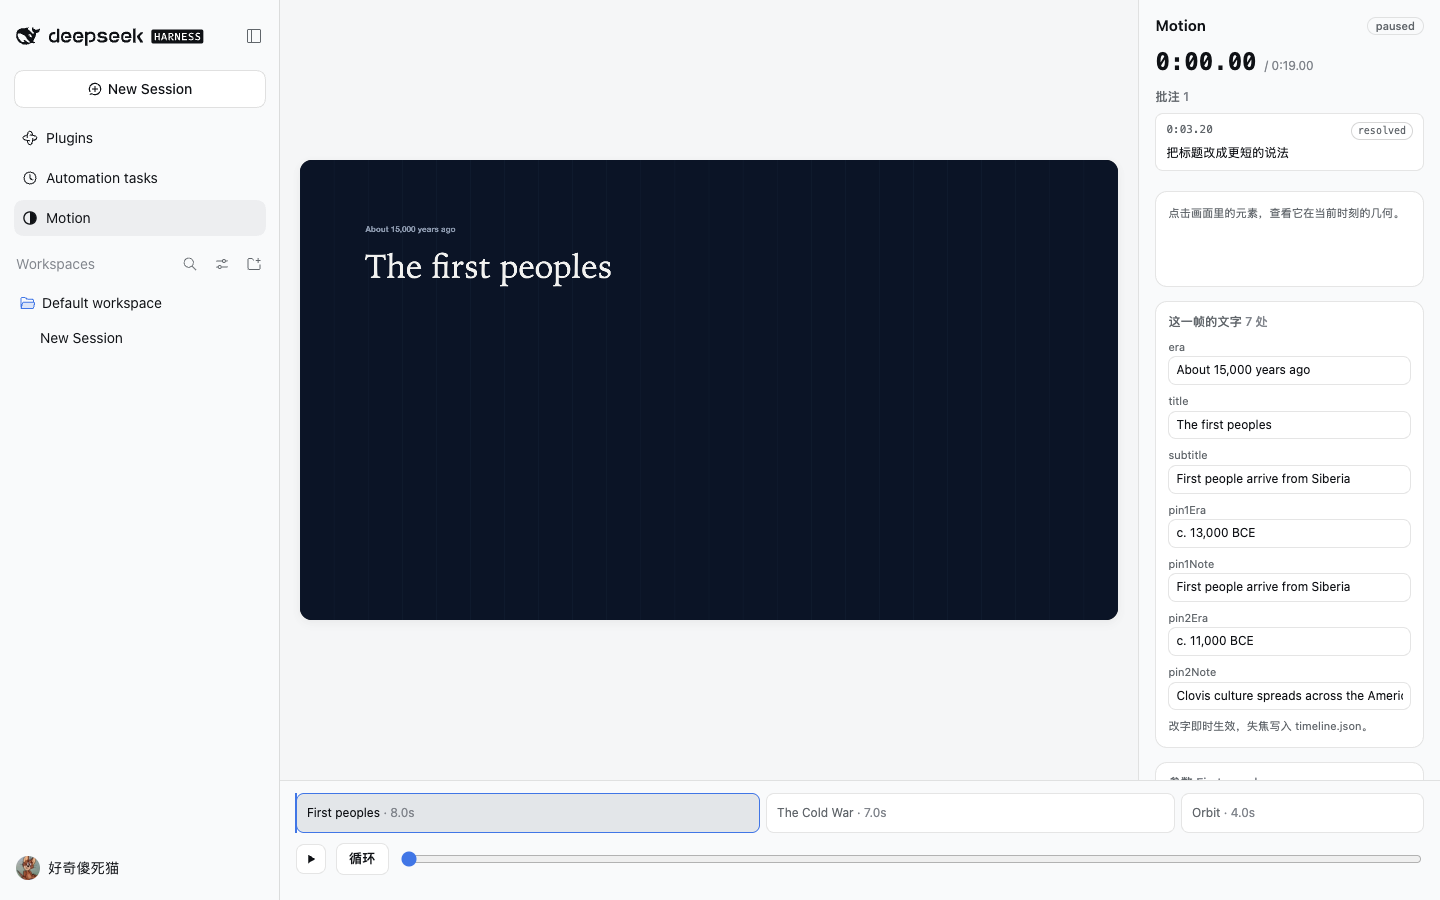
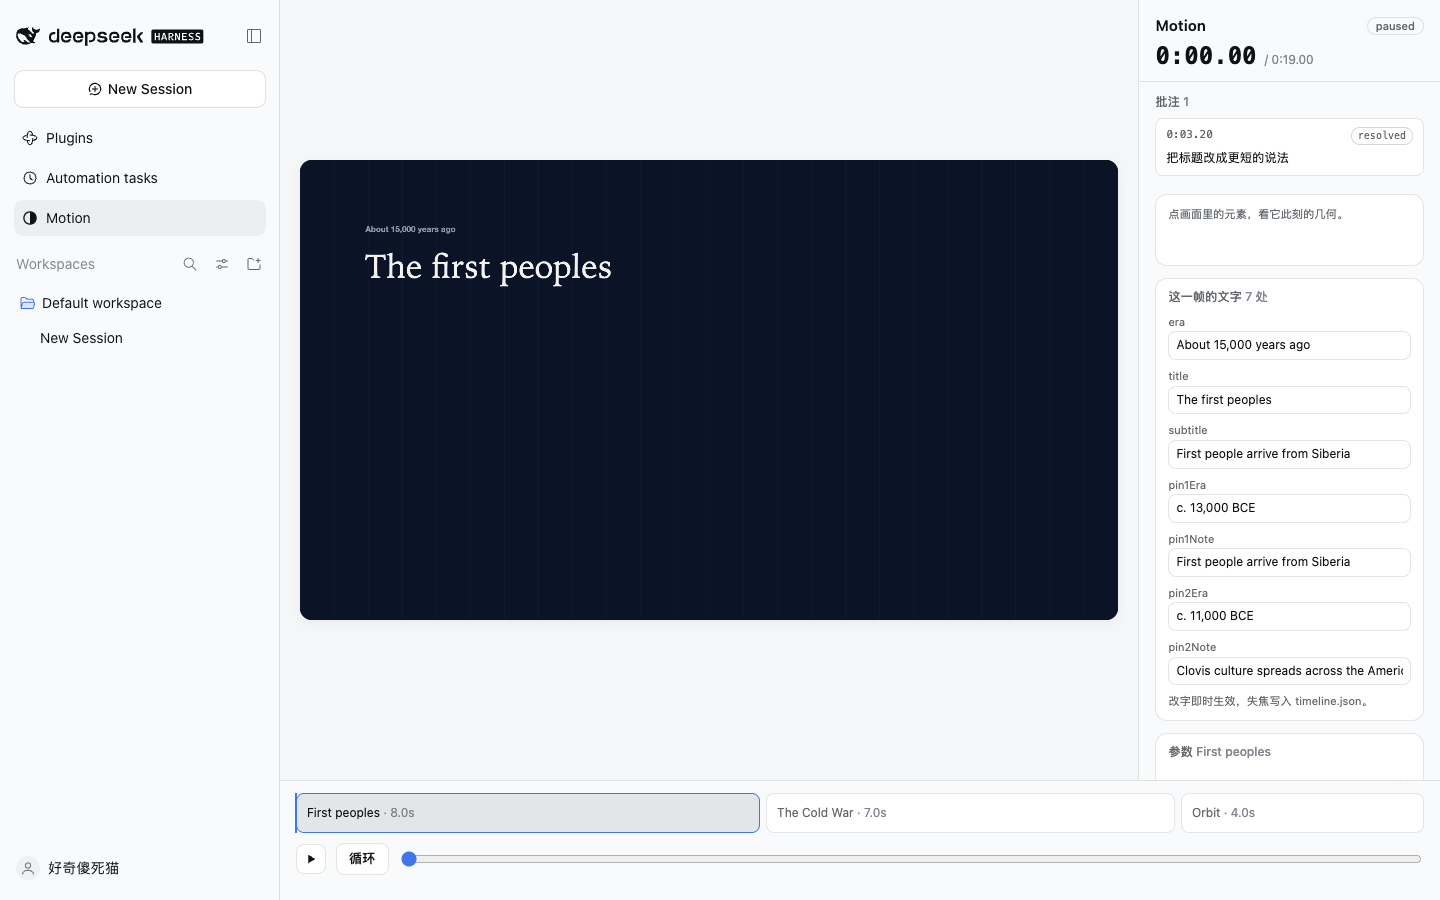
style(panel): keep the timecode in view, and name the controls
The panel scrolls once a scene declares knobs, values and text, which used
to scroll the timecode out of sight. Title and timecode now sit in a sticky
block with a hairline under it; the inspector floor drops from 96 to 72px
because most frames have one line of geometry; the transport and undo carry
titles so the glyphs are not the only affordance.

Evidence: gate:ui 12/12, gate:tweaks 13/13, full check green.

diff --git a/lib/app.html b/lib/app.html
@@ -30,15 +30,17 @@
       </main>
 
       <aside class="panel">
-        <header class="panel-head">
-          <h1>Motion</h1>
-          <span class="tag" id="mode">paused</span>
-        </header>
+        <div class="panel-top">
+          <header class="panel-head">
+            <h1>Motion</h1>
+            <span class="tag" id="mode">paused</span>
+          </header>
 
-        <section class="readout">
-          <span id="tc" class="tc">0:00.00</span>
-          <span class="dim">/ <span id="dur">0:19.00</span></span>
-        </section>
+          <section class="readout">
+            <span id="tc" class="tc">0:00.00</span>
+            <span class="dim">/ <span id="dur">0:19.00</span></span>
+          </section>
+        </div>
 
         <section class="threads">
           <h2>批注 <span id="threadCount" class="dim">0</span></h2>
@@ -46,7 +48,7 @@
         </section>
 
         <section class="inspector" id="inspector">
-          <p class="hint">点击画面里的元素，查看它在当前时刻的几何。</p>
+          <p class="hint">点画面里的元素，看它此刻的几何。</p>
         </section>
 
         <section class="assets" id="assets" hidden>
@@ -71,7 +73,7 @@
 
         <footer class="panel-foot">
           <span id="sceneName" class="dim">—</span>
-          <button id="undo" class="btn ghost" disabled>回退</button>
+          <button id="undo" class="btn ghost" disabled title="回到上一次写入前">回退</button>
         </footer>
       </aside>
     </div>
@@ -81,13 +83,13 @@
         <div class="playhead" id="playhead"></div>
       </div>
       <div class="transport">
-        <button id="play" class="btn icon" aria-label="play">
+        <button id="play" class="btn icon" aria-label="play" title="播放 / 暂停（空格）">
           <svg viewBox="0 0 16 16" aria-hidden="true" focusable="false">
             <path class="i-play" d="M5 3.2v9.6l8-4.8z" />
             <path class="i-pause" d="M5.4 3.4h2.2v9.2H5.4zM8.4 3.4h2.2v9.2H8.4z" style="display: none" />
           </svg>
         </button>
-        <button id="loop" class="btn ghost" aria-pressed="false">循环</button>
+        <button id="loop" class="btn ghost" aria-pressed="false" title="循环播放">循环</button>
         <input id="scrub" class="scrub" type="range" min="0" max="19" step="0.01" value="0" />
       </div>
     </div>

diff --git a/preview.html b/preview.html
@@ -33,15 +33,17 @@
       </main>
 
       <aside class="panel">
-        <header class="panel-head">
-          <h1>Motion</h1>
-          <span class="tag" id="mode">paused</span>
-        </header>
+        <div class="panel-top">
+          <header class="panel-head">
+            <h1>Motion</h1>
+            <span class="tag" id="mode">paused</span>
+          </header>
 
-        <section class="readout">
-          <span id="tc" class="tc">0:00.00</span>
-          <span class="dim">/ <span id="dur">0:19.00</span></span>
-        </section>
+          <section class="readout">
+            <span id="tc" class="tc">0:00.00</span>
+            <span class="dim">/ <span id="dur">0:19.00</span></span>
+          </section>
+        </div>
 
         <section class="threads">
           <h2>批注 <span id="threadCount" class="dim">0</span></h2>
@@ -49,7 +51,7 @@
         </section>
 
         <section class="inspector" id="inspector">
-          <p class="hint">点击画面里的元素，查看它在当前时刻的几何。</p>
+          <p class="hint">点画面里的元素，看它此刻的几何。</p>
         </section>
 
         <section class="assets" id="assets" hidden>
@@ -74,7 +76,7 @@
 
         <footer class="panel-foot">
           <span id="sceneName" class="dim">—</span>
-          <button id="undo" class="btn ghost" disabled>回退</button>
+          <button id="undo" class="btn ghost" disabled title="回到上一次写入前">回退</button>
         </footer>
       </aside>
     </div>
@@ -84,13 +86,13 @@
         <div class="playhead" id="playhead"></div>
       </div>
       <div class="transport">
-        <button id="play" class="btn icon" aria-label="play">
+        <button id="play" class="btn icon" aria-label="play" title="播放 / 暂停（空格）">
           <svg viewBox="0 0 16 16" aria-hidden="true" focusable="false">
             <path class="i-play" d="M5 3.2v9.6l8-4.8z" />
             <path class="i-pause" d="M5.4 3.4h2.2v9.2H5.4zM8.4 3.4h2.2v9.2H8.4z" style="display: none" />
           </svg>
         </button>
-        <button id="loop" class="btn ghost" aria-pressed="false">循环</button>
+        <button id="loop" class="btn ghost" aria-pressed="false" title="循环播放">循环</button>
         <input id="scrub" class="scrub" type="range" min="0" max="19" step="0.01" value="0" />
       </div>
     </div>

diff --git a/lib/app.css b/lib/app.css
@@ -83,8 +83,22 @@ canvas {
   padding: 16px;
   display: flex;
   flex-direction: column;
-  gap: 14px;
+  gap: 12px;
   overflow: auto;
+}
+
+/* Timecode and title stay put while the sections scroll under them. */
+.panel-top {
+  position: sticky;
+  top: -16px;
+  z-index: 3;
+  margin: -16px -16px 0;
+  padding: 16px 16px 12px;
+  background: var(--panel);
+  border-bottom: 0.5px solid var(--line);
+  display: flex;
+  flex-direction: column;
+  gap: 8px;
 }
 
 .panel-head {
@@ -130,12 +144,12 @@ canvas {
 .assets {
   border: 0.5px solid var(--line);
   border-radius: var(--radius);
-  padding: 12px;
+  padding: 10px 12px;
   background: var(--surface);
 }
 
 .inspector {
-  min-height: 96px;
+  min-height: 72px;
   font: 12px/1.7 var(--mono);
   color: var(--muted);
 }
@@ -252,6 +266,13 @@ canvas {
 
 .btn:hover {
   background: var(--hover);
+}
+
+.btn:focus-visible,
+.chip:focus-visible,
+.thread:focus-visible {
+  outline: 2px solid var(--accent);
+  outline-offset: 1px;
 }
 
 .btn.icon {

diff --git a/src/preview.css b/src/preview.css
@@ -83,8 +83,22 @@ canvas {
   padding: 16px;
   display: flex;
   flex-direction: column;
-  gap: 14px;
+  gap: 12px;
   overflow: auto;
+}
+
+/* Timecode and title stay put while the sections scroll under them. */
+.panel-top {
+  position: sticky;
+  top: -16px;
+  z-index: 3;
+  margin: -16px -16px 0;
+  padding: 16px 16px 12px;
+  background: var(--panel);
+  border-bottom: 0.5px solid var(--line);
+  display: flex;
+  flex-direction: column;
+  gap: 8px;
 }
 
 .panel-head {
@@ -130,12 +144,12 @@ canvas {
 .assets {
   border: 0.5px solid var(--line);
   border-radius: var(--radius);
-  padding: 12px;
+  padding: 10px 12px;
   background: var(--surface);
 }
 
 .inspector {
-  min-height: 96px;
+  min-height: 72px;
   font: 12px/1.7 var(--mono);
   color: var(--muted);
 }
@@ -252,6 +266,13 @@ canvas {
 
 .btn:hover {
   background: var(--hover);
+}
+
+.btn:focus-visible,
+.chip:focus-visible,
+.thread:focus-visible {
+  outline: 2px solid var(--accent);
+  outline-offset: 1px;
 }
 
 .btn.icon {
